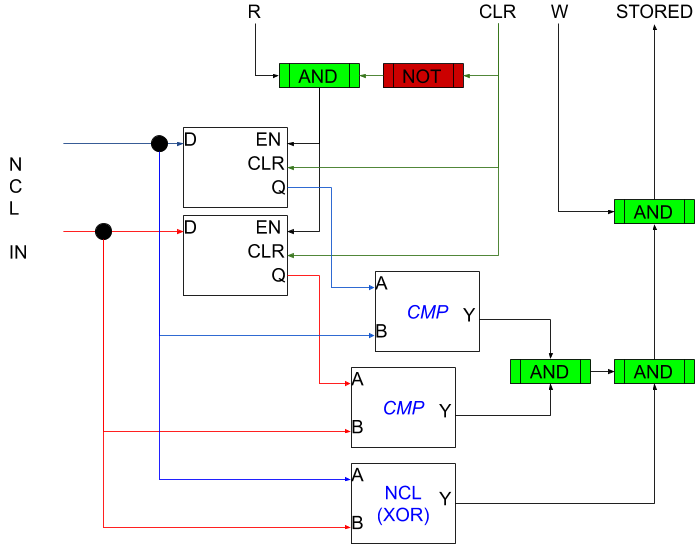
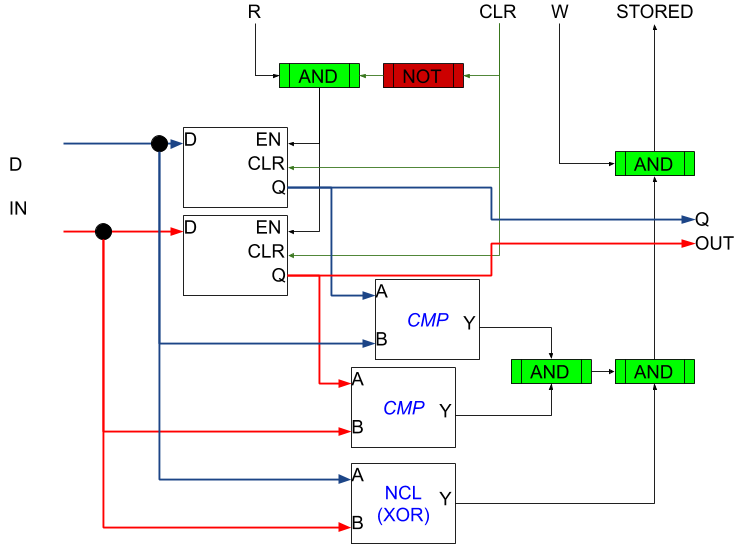
Updated handshake documentation

diff --git a/risc-v/asynchronous/handshake/README.md b/risc-v/asynchronous/handshake/README.md
@@ -16,10 +16,12 @@ interface would send and received data over the same interface.
 
 This allows only the transitions below:
 ```
+Receiver:
 W[in]   R[out]   Transition
 1       1        R[out] <= 0
 0       0        R[out] <= 1
 
+Sender:
 R[in]   W[out]   Transition
 1       0        W[out] <= 1
 0       1        W[out] <= 0
@@ -35,16 +37,80 @@ to `1` when ready.  To be more clear:
 | d[0..x] (out) |=| d[0..x]  (in) |
 |_______________| |_______________|
 ```
-Above, the Sender waits for Ready to read `1`.  When this occurs, the Sender
-sets Waiting to `1` only after it has data ready on `d[0..x]`.  Waiting and
-`d[0..x]` remain asserted until Ready reads `0`, at which point Waiting is
-de-asserted to `0`.
+This proceeds as follows:
+```
+Sender:   W = 0        State: R=0, W=0
+Receiver: R = 0        State: R=0, W=0
+Sender becomes ready to send data (valid here...)
+Sender:   d <= [data]
+Receiver becomes ready to accept new data
+Receiver: R <= 1       State: R=1, W=0
+(...or sender can become ready to send here)
+Sender:   W <= 1       State: R=1, W=1
+Receiver stores the data and no longer needs d
+Receiver: R <= 0       State: R=0, W=1
+Sender acknowledges (any state on Sender's end)
+Sender:   W <= 0       State: R=0, W=0
+```
 
-The Receiver, when ready to receive data, waits for Waiting to read `0`.  When
-this occur, the Receiver asserts Ready as `1` only after it is ready to receive
-new data.  When Waiting reads `1`, the Receiver de-asserts Ready to `0` only
-after it no longer requires the data on `d[0..x]`.
+The Receiver must buffer the data or the entire asynchronous CPU will
+simply wait until each single instruction is 100% complete and the
+output sent to main RAM before fetching the next single instruction.
 
-In this way the Sender sends data to the Receiver immediately when the Receiver
-is ready for it.  Two-way or pipeline communication requires two such buses:
-each must send and receive to either one another or some other component.
+To do this, we use a delay-insensitive flip flop as a one-bit NCL
+register:
+
+![Delay-Insensitev Flip Flop Buffer](ncl_async_register.png)
+
+This register outputs `STORED` or `St` when `D` is non-NULL, `Q = D`,
+and `W` is `1` (i.e. sender is signaling the data on `D` is valid).
+In this way, it is insensitive to its own delay and the delay of the
+sending circuit.
+
+Assembling these into an n-bit register produces the below black box:
+```
+  __________
+=| D     EN |-
+-| W    CLR |-
+ |       St |-
+ |        Q |=
+ |__________|
+```
+The receiver checks `Q` (for valid non-NULL data) and `St` (for the
+register indicating that it itself considers the data non-NULL and
+stored) before transitionig `R` from `1` to `0`.
+
+For proper operation, the receiver should not transition `R` from `0`
+to `1`  until first setting `CLR`, then validating the circuit's final
+output is NULL.  This ensures the circuit has been flushed and won't
+generate spurious non-NULL output when new data comes in.
+
+Once the receiver has validated its output is flushed, it transitions
+`CLR` to `0` and `R` to `1`.  The `EN` signal is suppressed until `CLR`
+is `0` so as to avoid an `EN AND CLR` situation (although the DFF
+respects `CLR` over `EN` in its current implementation).
+
+Importantly, `D` must remain valid until `R` transitions to `0`.  The
+sending circuit can output `D` continuously when `R` is `0`, and so
+can send its output directly to `D` with no buffer.
+
+The sender should transition its output to NULL and then to valid;
+however, the NCL check fails on both `00` and `11`, so even if the
+circuit glitches and stores `Q = D = 11`, it will not proceed.  This
+suppresses the data hazard.  Consider transitioning from `10` to
+`01`:
+```
+10 => 00 => 01
+10 => 11 => 01
+```
+The supposed flush moves to `00`, indicating NULL; but a glitch where
+the `0` to `1` transition arrives before the corresponding `1` to `0`
+transition moves to `11`, which is treated as NULL.  The circuit
+behaves identically in either case.  The flush is to ensure a
+fully-valid but *incorrect* value does not land on `D` while `W` is
+`1`, which would result in the receiver accepting the data as
+correct and processing it—a severe data hazard.
+
+Altogether, the handshake protocol and the delay-insensitive NCL
+registers provide for asynchronous data transfer between internal
+components.
